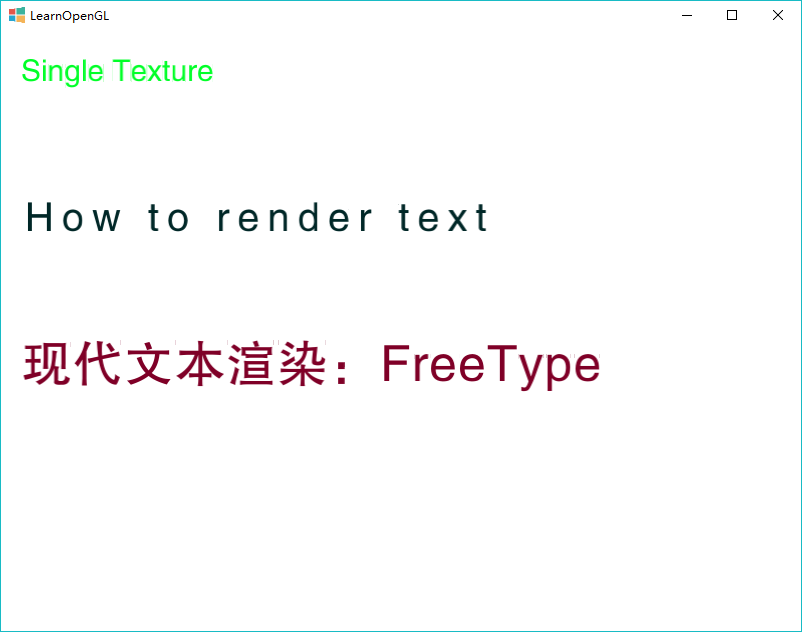
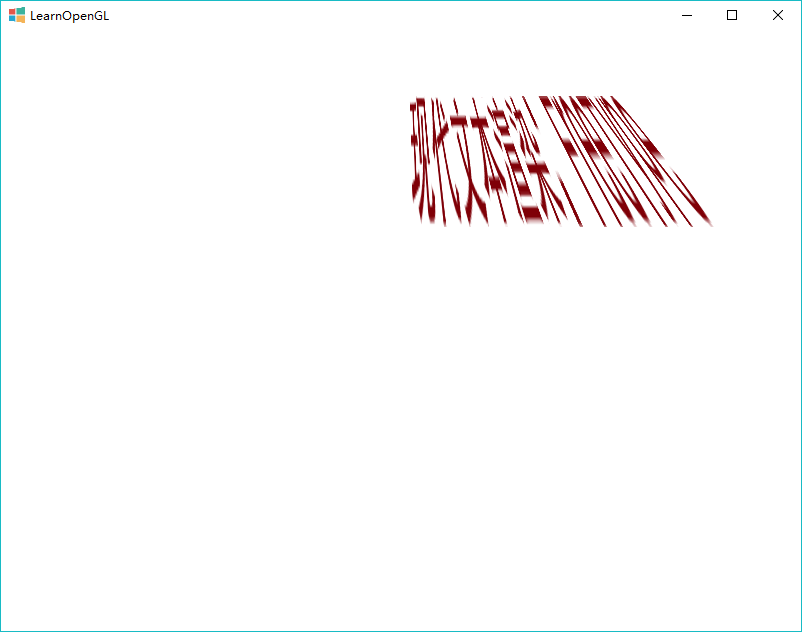
perspective

diff --git a/main.cpp b/main.cpp
@@ -189,6 +189,11 @@ Atlas *renderText(HBText text, unsigned int size, float x = 0, float y = 0) {
     if (glyphCount) {
         x += letterSpaceHalfLeft;
     }
+    float sx = 1.0f / WINDOW_WIDTH;
+    float sy = 1.0f / WINDOW_HEIGHT;
+    x *= sx;
+    y *= sy;
+
     for (unsigned int i = 0; i < glyphCount; ++i) {
         hb_glyph_info_t info = infos[i];
         hb_glyph_position_t pos = positions[i];
@@ -219,17 +224,17 @@ Atlas *renderText(HBText text, unsigned int size, float x = 0, float y = 0) {
 
         float s1 = s0 + float(bitmap.width) / atlas->w;
         float t1 = t0 + float(bitmap.rows) / atlas->h;
-        float x0 = x + slot->bitmap_left;
-        float y0 = floor(y + slot->bitmap_top);
-        float x1 = x0 + bitmap.width;
-        float y1 = floor(y0 - bitmap.rows);
+        float x0 = x + slot->bitmap_left * sx;;
+        float y0 = floor(y + slot->bitmap_top * sx);
+        float x1 = x0 + bitmap.width * sx;
+        float y1 = floor(y0 - bitmap.rows * sy);
 
         // printf("vertices: %f,%f,%f,%f,%f,%f,%f,%f,%d \n", x0, y0, x1, y1, s0, t0, s1, t1, bitmap.width);
 
         rowh = std::max(rowh, bitmap.rows);
         ox += bitmap.width + 1;
-        x += xa + letterSpace;
-        y += ya;
+        x += (xa + letterSpace) * sx;
+        y += ya * sy;;
 
         atlas->coords[c++] = {
                 x0, y0, s0, t0
@@ -301,13 +306,9 @@ void initGL() {
     glBlendFunc(GL_SRC_ALPHA, GL_ONE_MINUS_SRC_ALPHA);
     // glPolygonMode(GL_FRONT_AND_BACK, GL_LINE);
 
-    glm::mat4 projection = glm::ortho(0.0f, static_cast<GLfloat>(WINDOW_WIDTH), 0.0f,
-                                      static_cast<GLfloat>(WINDOW_HEIGHT));
-
     program = shader_load("res/vs_texture.glsl",
                           "res/fs_texture.glsl");
     glUseProgram(program);
-    glUniformMatrix4fv(glGetUniformLocation(program, "projection"), 1, GL_FALSE, glm::value_ptr(projection));
 
     glGenVertexArrays(1, &VAO);
     glBindVertexArray(VAO);
@@ -332,20 +333,6 @@ int main() {
     GLFWwindow *window = initWindow();
     initGL();
     initHB();
-    HBText text1 = {
-            "Single Texture",
-            "zh",
-            HB_SCRIPT_HAN,
-            HB_DIRECTION_LTR
-    };
-
-    HBText text2 = {
-            "How to render text",
-            "en",
-            HB_SCRIPT_LATIN,
-            HB_DIRECTION_LTR,
-            8.0f
-    };
 
     HBText text3 = {
             "现代文本渲染：FreeType",
@@ -355,8 +342,6 @@ int main() {
             1.2f
     };
 
-    auto a1 = renderText(text1, 30, 20, WINDOW_HEIGHT - 50);
-    auto a2 = renderText(text2, 40, 20, WINDOW_HEIGHT - 200);
     auto a3 = renderText(text3, 50, 20, WINDOW_HEIGHT - 350);
 
     while (!glfwWindowShouldClose(window)) {
@@ -365,14 +350,23 @@ int main() {
         float timeValue = glfwGetTime();
         float value = sin(timeValue);
         glUseProgram(program);
+
+        glm::mat4 model;
+        glm::mat4 view;
+        glm::mat4 projection;
+        model = glm::rotate(model, glm::radians(-55.0f), glm::vec3(1.0f, 0.0f, 0.0f));
+        view = glm::translate(view, glm::vec3(0.0f, 0.0f, -3.1f));
+        projection = glm::perspective(glm::radians(45.0f), (float) WINDOW_WIDTH / (float) WINDOW_HEIGHT, 0.1f, 200.0f);
+        // retrieve the matrix uniform locations
+        unsigned int modelLoc = glGetUniformLocation(program, "model");
+        unsigned int viewLoc = glGetUniformLocation(program, "view");
+        unsigned int projectionLoc = glGetUniformLocation(program, "projection");
+        glUniformMatrix4fv(modelLoc, 1, GL_FALSE, glm::value_ptr(model));
+        glUniformMatrix4fv(viewLoc, 1, GL_FALSE, &view[0][0]);
+        glUniformMatrix4fv(projectionLoc, 1, GL_FALSE, &projection[0][0]);
+
         glActiveTexture(GL_TEXTURE0);
         glBindVertexArray(VAO);
-
-        glUniform3f(glGetUniformLocation(program, "textColor"), 0, 1.0, value);
-        drawText(a1);
-
-        glUniform3f(glGetUniformLocation(program, "textColor"), 0, value, value);
-        drawText(a2);
 
         glUniform3f(glGetUniformLocation(program, "textColor"), 0.5, 0, value);
         drawText(a3);
